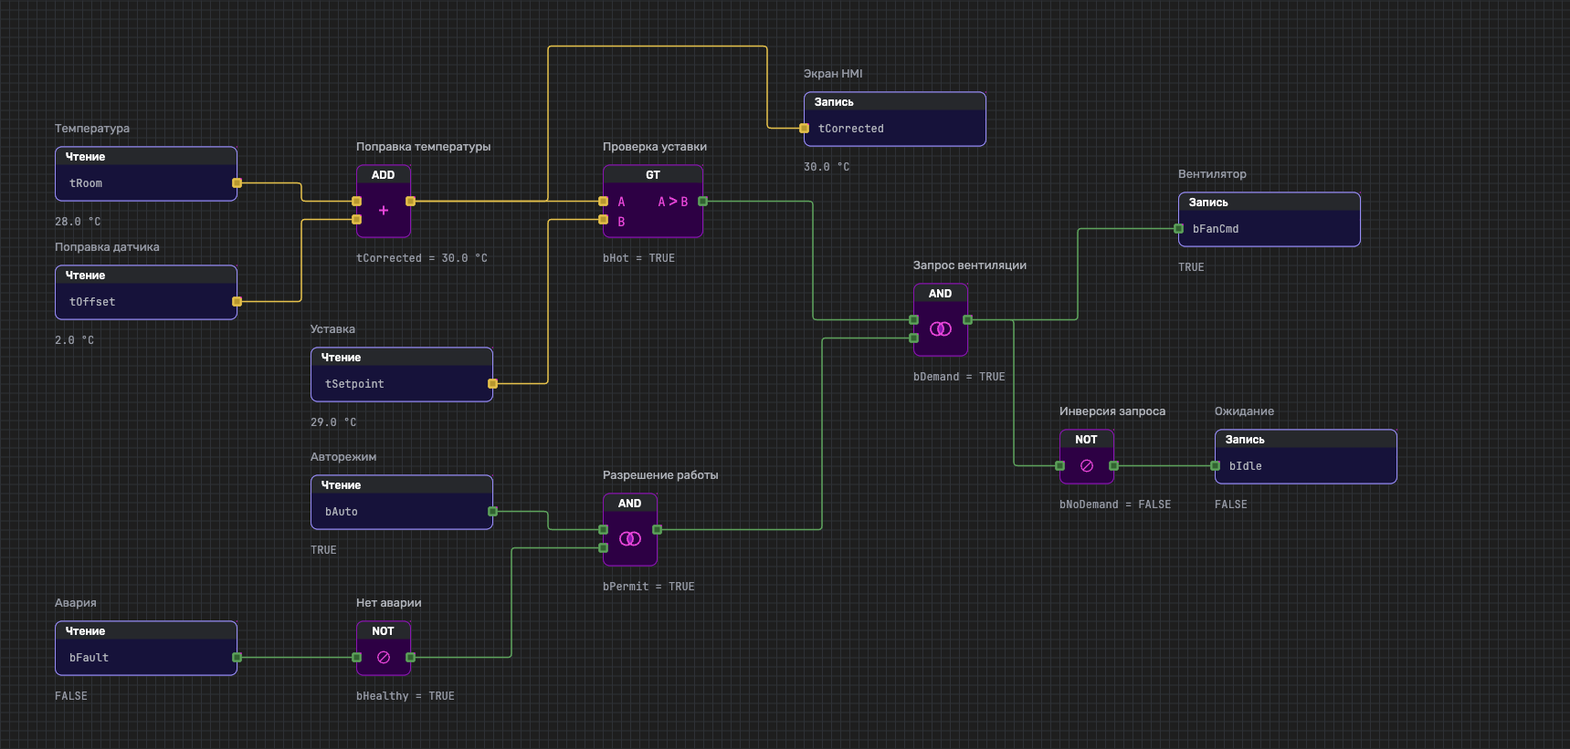
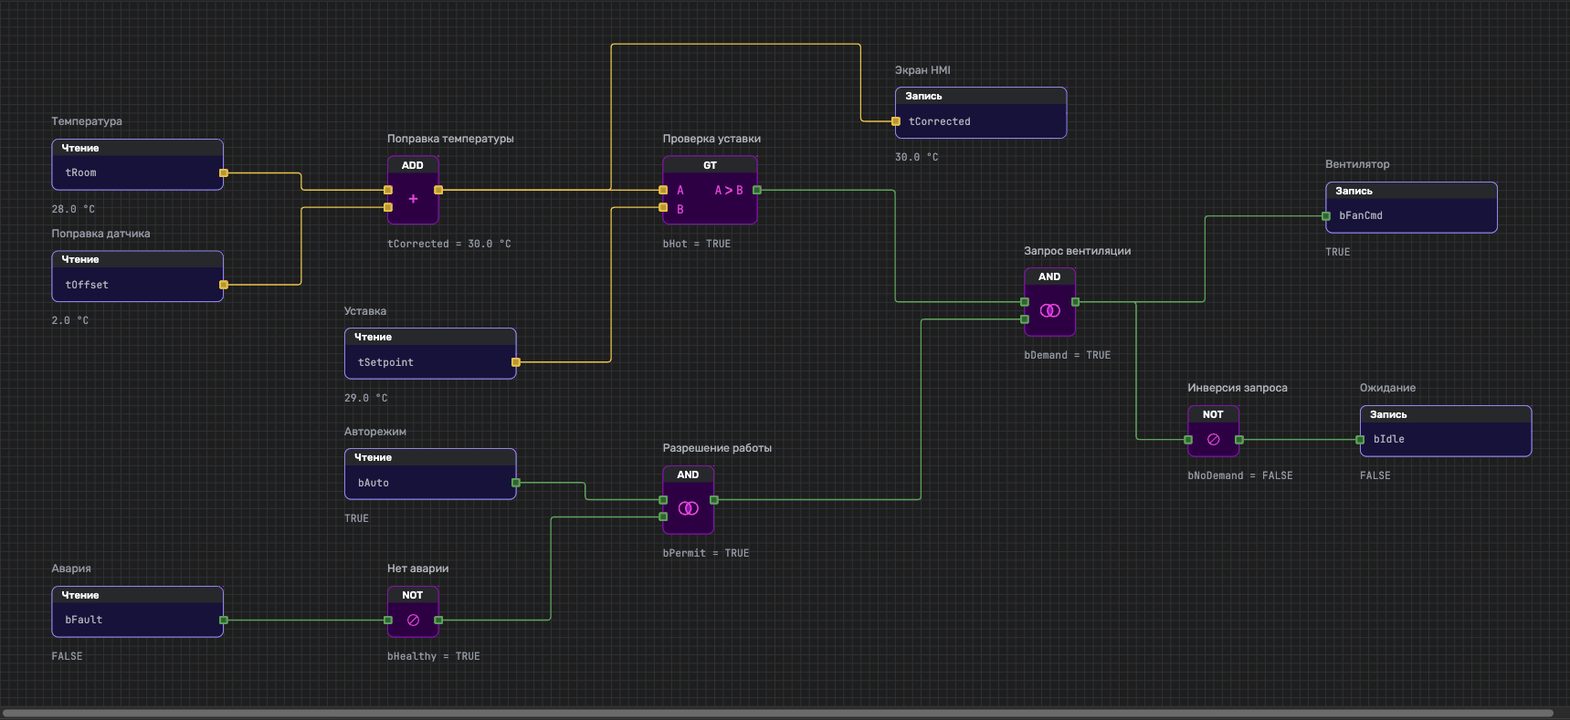
Update CFC branch highlighting and hierarchical numbering

diff --git a/08_tests/Test_CFC/ui/ui.js b/08_tests/Test_CFC/ui/ui.js
@@ -7,11 +7,12 @@ const layout={
 };
 const variableNames={TEMP:'tRoom',OFFSET:'tOffset',LIMIT:'tSetpoint',AUTO:'bAuto',FAULT:'bFault',FAN:'bFanCmd',IDLE:'bIdle',TEMPLOG:'tCorrected'};
 const labels={ADD:'Поправка температуры',GT:'Проверка уставки',HEALTHY:'Нет аварии',PERMIT:'Разрешение работы',DEMAND:'Запрос вентиляции',IDLENOT:'Инверсия запроса'};
+const hierarchyNumbers=branchNumbers(execution,edges);
 const host=document.querySelector('#ui-nodes');
 const variant=document.body.dataset.variant||'a';
 let selectedNode=null;
 for(const n of nodes){
- const outer=document.createElement('div');outer.className='static-node';outer.dataset.id=n.id;outer.dataset.kind=n.kind;layout[n.id]=layout[n.id].map(v=>Math.round(v/10)*10);outer.style.left=layout[n.id][0]+'px';outer.style.top=layout[n.id][1]+'px';
+ const outer=document.createElement('div');outer.className='static-node';outer.dataset.id=n.id;outer.dataset.kind=n.kind;layout[n.id]=[Math.round((60+(layout[n.id][0]-60)*1.2)/10)*10,Math.round(layout[n.id][1]/10)*10];outer.style.left=layout[n.id][0]+'px';outer.style.top=layout[n.id][1]+'px';
  outer.innerHTML=componentTemplates[n.kind];
  outer.setAttribute('role','button');outer.tabIndex=0;outer.setAttribute('aria-pressed','false');outer.setAttribute('aria-label',`${execution.indexOf(n.id)+1}. ${n.title}, ${n.kind}`);
  outer.addEventListener('click',()=>selectNode(n.id));outer.addEventListener('keydown',event=>{if(event.key==='Enter'||event.key===' '){event.preventDefault();selectNode(n.id);}});
@@ -23,26 +24,30 @@ for(const n of nodes){
  const result=document.createElement('div');result.className='node-result';const value=typeof values[n.id]==='boolean'?(values[n.id]?'TRUE':'FALSE'):values[n.id].toFixed(1)+' °C';
  result.textContent=(resultNames[n.id]?resultNames[n.id]+' = ':'')+value;outer.append(result);host.append(outer);
 }
-function point(el){const r=el.getBoundingClientRect(),base=document.querySelector('#static-canvas').getBoundingClientRect();return{x:r.left+r.width/2-base.left,y:r.top+r.height/2-base.top};}
-function ports(id){const root=document.querySelector(`.static-node[data-id="${id}"]`),r=root.firstElementChild.getBoundingClientRect();const all=[...root.querySelectorAll('[data-cfc="AltaCFC_Ports"]')].map(el=>({el,...point(el)}));const center=layout[id][0]+r.width/2;return{inputs:all.filter(p=>p.x<center).sort((a,b)=>a.y-b.y),outputs:all.filter(p=>p.x>=center).sort((a,b)=>a.y-b.y)};}
+function canvasScale(){return Number(document.querySelector('#static-canvas').dataset.scale)||1;}
+function point(el){const r=el.getBoundingClientRect(),base=document.querySelector('#static-canvas').getBoundingClientRect(),scale=canvasScale();return{x:(r.left+r.width/2-base.left)/scale,y:(r.top+r.height/2-base.top)/scale};}
+function ports(id){const root=document.querySelector(`.static-node[data-id="${id}"]`),r=root.firstElementChild.getBoundingClientRect();const all=[...root.querySelectorAll('[data-cfc="AltaCFC_Ports"]')].map(el=>({el,...point(el)}));const center=layout[id][0]+r.width/(2*canvasScale());return{inputs:all.filter(p=>p.x<center).sort((a,b)=>a.y-b.y),outputs:all.filter(p=>p.x>=center).sort((a,b)=>a.y-b.y)};}
 function drawWires(){
  const portMap=Object.fromEntries(nodes.map(n=>[n.id,ports(n.id)]));
  const paths=edges.map(([from,to,index])=>{const a=portMap[from].outputs[0],b=portMap[to].inputs[index];if(!a||!b)throw Error('Port missing: '+from+' / '+to+' / '+index);
  const type=typeof values[from]==='boolean'?'bool':'real';a.el.style.setProperty('--signal',`var(--cfc-ports-${type==='bool'?'bool':'float'}-border)`);a.el.style.setProperty('--signal-bg',`var(--cfc-ports-${type==='bool'?'bool':'float'}-bg)`);b.el.style.setProperty('--signal',`var(--cfc-ports-${type==='bool'?'bool':'float'}-border)`);b.el.style.setProperty('--signal-bg',`var(--cfc-ports-${type==='bool'?'bool':'float'}-bg)`);
  const sx=a.x+5,sy=a.y,tx=b.x-5,ty=b.y;
  // Углы трассы на сетке 10 px, локальное скругление 4 px — как в Figma.
- let d;if(from==='ADD'&&to==='TEMPLOG'){d=roundedGridPath([[sx,sy],[600,sy],[600,50],[840,50],[840,ty],[tx,ty]]);}
- else{const mid=from==='PERMIT'?900:from==='LIMIT'?600:Math.round((sx+tx)/20)*10;d=roundedGridPath([[sx,sy],[mid,sy],[mid,ty],[tx,ty]]);}
+ let d;if(from==='ADD'&&to==='TEMPLOG'){d=roundedGridPath([[sx,sy],[710,sy],[710,50],[1000,50],[1000,ty],[tx,ty]]);}
+ else{const mid=from==='PERMIT'?1070:from==='LIMIT'?710:Math.round((sx+tx)/20)*10;d=roundedGridPath([[sx,sy],[mid,sy],[mid,ty],[tx,ty]]);}
  return `<path class="ui-wire ${type}" data-from="${from}" data-to="${to}" d="${d}"/>`;
  }).join('');document.querySelector('#ui-connections').innerHTML=paths;
  renderSelection();
 }
-document.fonts.ready.then(drawWires);
+function fitCanvas(){const canvas=document.querySelector('#static-canvas'),available=canvas.parentElement.clientWidth;const scale=available>=900?Math.min(1,available/1840):1;canvas.dataset.scale=scale;canvas.style.zoom=scale;}
+fitCanvas();
+document.fonts.ready.then(()=>{fitCanvas();drawWires();});
+window.addEventListener('resize',()=>{fitCanvas();drawWires();});
 
 function selectNode(id){selectedNode=selectedNode===id?null:id;renderSelection();}
 function reachable(id,reverse){const found=new Set(),stack=[id];while(stack.length){const current=stack.pop();for(const [a,b] of edges){const source=reverse?b:a,target=reverse?a:b;if(source===current&&target!==id&&!found.has(target)){found.add(target);stack.push(target);}}}return found;}
 function renderSelection(){
- const up=selectedNode?reachable(selectedNode,true):new Set(),down=selectedNode&&variant==='d'?reachable(selectedNode,false):new Set();
+ const up=selectedNode?reachable(selectedNode,true):new Set(),down=selectedNode&&(variant==='a'||variant==='d')?reachable(selectedNode,false):new Set();
  const chain=new Set([...up,...down,selectedNode]);
  const numbered=selectedNode?(variant==='a'?execution:variant==='b'?execution.filter(id=>chain.has(id)):[]):[];
  document.querySelectorAll('.static-node').forEach(el=>{
@@ -50,14 +55,15 @@ function renderSelection(){
   el.classList.toggle('is-selected',chosen);el.classList.toggle('is-related',related);el.classList.toggle('is-muted',muted);el.setAttribute('aria-pressed',String(chosen));
   const number=numbered.indexOf(id)+1;
   el.querySelector('.execution-order')?.remove();
-  if(number){const badge=document.createElement('span');badge.className='execution-order';badge.textContent=number;badge.setAttribute('aria-hidden','true');el.append(badge);}
-  el.setAttribute('aria-label',`${number?number+'. ':''}${byId[id].title}, ${byId[id].kind}`);
+  const displayNumber=number?(variant==='a'?hierarchyNumbers[id]:String(number)):'';
+  if(displayNumber){const badge=document.createElement('span');badge.className='execution-order';badge.textContent=displayNumber;badge.setAttribute('aria-hidden','true');el.append(badge);}
+  el.setAttribute('aria-label',`${displayNumber?displayNumber+'. ':''}${byId[id].title}, ${byId[id].kind}`);
  });
  document.querySelectorAll('.is-active-port').forEach(el=>el.classList.remove('is-active-port'));
  let count=0;
  document.querySelectorAll('.ui-wire').forEach(path=>{
   const a=path.dataset.from,b=path.dataset.to;
-  const active=!!selectedNode&&(variant==='a'?(a===selectedNode||b===selectedNode):(up.has(a)&&(up.has(b)||b===selectedNode))||(down.has(b)&&(down.has(a)||a===selectedNode)));
+  const active=!!selectedNode&&(variant==='a'?(b===selectedNode||(down.has(b)&&(down.has(a)||a===selectedNode))):(up.has(a)&&(up.has(b)||b===selectedNode))||(down.has(b)&&(down.has(a)||a===selectedNode)));
   path.classList.toggle('is-active',active);path.classList.toggle('is-muted',!!selectedNode&&(variant==='c'||variant==='d')&&!active);
   if(active){count++;const from=ports(a),to=ports(b),edge=edges.find(e=>e[0]===a&&e[1]===b);from.outputs[0].el.classList.add('is-active-port');to.inputs[edge[2]].el.classList.add('is-active-port');}
  });
@@ -65,3 +71,21 @@ function renderSelection(){
 }
 document.querySelector('#static-canvas').addEventListener('click',event=>{if(!event.target.closest('.static-node')){selectedNode=null;renderSelection();}});
 document.addEventListener('keydown',event=>{if(event.key==='Escape'){selectedNode=null;renderSelection();}});
+
+// Для развилки N: N.1.1, N.1.2… / N.2.1, N.2.2… .
+// Вложенная развилка продолжает полный номер родителя. Одна нода имеет один номер.
+function branchNumbers(order,graph){
+ const labels={},scopes={};let rootNumber=0;
+ const targets=id=>[...new Set(graph.filter(edge=>edge[0]===id).map(edge=>edge[1]))];
+ for(const id of order){
+  const candidates=graph.filter(edge=>edge[1]===id).map(([from])=>{
+   const branches=targets(from);
+   if(branches.length>1)return{prefix:labels[from]+'.'+(branches.indexOf(id)+1),step:1};
+   if(scopes[from])return{prefix:scopes[from].prefix,step:scopes[from].step+1};
+   return null;
+  }).filter(Boolean).sort((a,b)=>b.prefix.split('.').length-a.prefix.split('.').length);
+  if(candidates.length){scopes[id]=candidates[0];labels[id]=scopes[id].prefix+'.'+scopes[id].step;}
+  else labels[id]=String(++rootNumber);
+ }
+ return labels;
+}

diff --git a/08_tests/Test_CFC/index.html b/08_tests/Test_CFC/index.html
@@ -1,1 +1,1 @@
-<!doctype html><html lang="ru" data-theme="dark"><head><meta charset="utf-8"><meta name="viewport" content="width=device-width,initial-scale=1"><title>ALTA CFC · Варианты визуализации</title><link rel="icon" href="data:,"><link rel="stylesheet" href="ui/vendor/theme.css"><link rel="stylesheet" href="gallery.css?v=20261123-grid"></head><body><main><header><p class="overline">ALTA / CFC</p><h1>Как показать порядок исполнения?</h1><p class="intro">Четыре варианта на одной схеме управления вентиляцией. Откройте любой вариант, чтобы рассмотреть его и попробовать выбор нод.</p></header><section class="options" aria-label="Варианты визуализации"><a class="option" href="variant-a.html" aria-label="Открыть вариант A: Общий порядок исполнения"><div class="option-heading"><span class="variant-label">A</span><h2>Общий порядок исполнения</h2><span class="expand"><svg viewBox="0 0 20 20" width="18" height="18" fill="none" aria-hidden="true"><path d="M3 8V3h5M12 3h5v5M17 12v5h-5M8 17H3v-5" stroke="currentColor" stroke-width="1.5" stroke-linecap="round" stroke-linejoin="round"/></svg><span>Развернуть</span></span></div><div class="thumbnail"><img src="ui/previews/a.png?v=unselected" alt="Схема вентиляции — вариант A: Общий порядок исполнения" width="1734" height="820"></div><p>Номера всех нод появляются при выборе любой ноды.</p></a><a class="option" href="variant-b.html" aria-label="Открыть вариант B: Порядок выбранной цепочки"><div class="option-heading"><span class="variant-label">B</span><h2>Порядок выбранной цепочки</h2><span class="expand"><svg viewBox="0 0 20 20" width="18" height="18" fill="none" aria-hidden="true"><path d="M3 8V3h5M12 3h5v5M17 12v5h-5M8 17H3v-5" stroke="currentColor" stroke-width="1.5" stroke-linecap="round" stroke-linejoin="round"/></svg><span>Развернуть</span></span></div><div class="thumbnail"><img src="ui/previews/b.png?v=unselected" alt="Схема вентиляции — вариант B: Порядок выбранной цепочки" width="1734" height="820"></div><p>Нумеруется цепочка, необходимая для исполнения выбранной ноды.</p></a><a class="option" href="variant-c.html" aria-label="Открыть вариант C: Зависимости выбранной ноды"><div class="option-heading"><span class="variant-label">C</span><h2>Зависимости выбранной ноды</h2><span class="expand"><svg viewBox="0 0 20 20" width="18" height="18" fill="none" aria-hidden="true"><path d="M3 8V3h5M12 3h5v5M17 12v5h-5M8 17H3v-5" stroke="currentColor" stroke-width="1.5" stroke-linecap="round" stroke-linejoin="round"/></svg><span>Развернуть</span></span></div><div class="thumbnail"><img src="ui/previews/c.png?v=unselected" alt="Схема вентиляции — вариант C: Зависимости выбранной ноды" width="1734" height="820"></div><p>Выделяются зависимости; остальная схема приглушается.</p></a><a class="option" href="variant-d.html" aria-label="Открыть вариант D: Зависимости и дальнейшее влияние"><div class="option-heading"><span class="variant-label">D</span><h2>Зависимости и дальнейшее влияние</h2><span class="expand"><svg viewBox="0 0 20 20" width="18" height="18" fill="none" aria-hidden="true"><path d="M3 8V3h5M12 3h5v5M17 12v5h-5M8 17H3v-5" stroke="currentColor" stroke-width="1.5" stroke-linecap="round" stroke-linejoin="round"/></svg><span>Развернуть</span></span></div><div class="thumbnail"><img src="ui/previews/d.png?v=unselected" alt="Схема вентиляции — вариант D: Зависимости и дальнейшее влияние" width="1734" height="820"></div><p>Выделяются зависимости и ноды, на которые выбранная нода влияет.</p></a></section></main></body></html>
+<!doctype html><html lang="ru" data-theme="dark"><head><meta charset="utf-8"><meta name="viewport" content="width=device-width,initial-scale=1"><title>ALTA CFC · Варианты визуализации</title><link rel="icon" href="data:,"><link rel="stylesheet" href="ui/vendor/theme.css"><link rel="stylesheet" href="gallery.css?v=20261123-grid"></head><body><main><header><p class="overline">ALTA / CFC</p><h1>Как показать порядок исполнения?</h1><p class="intro">Четыре варианта на одной схеме управления вентиляцией. Откройте любой вариант, чтобы рассмотреть его и попробовать выбор нод.</p></header><section class="options" aria-label="Варианты визуализации"><a class="option" href="variant-a.html" aria-label="Открыть вариант A: Общий порядок исполнения"><div class="option-heading"><span class="variant-label">A</span><h2>Общий порядок исполнения</h2><span class="expand"><svg viewBox="0 0 20 20" width="18" height="18" fill="none" aria-hidden="true"><path d="M3 8V3h5M12 3h5v5M17 12v5h-5M8 17H3v-5" stroke="currentColor" stroke-width="1.5" stroke-linecap="round" stroke-linejoin="round"/></svg><span>Развернуть</span></span></div><div class="thumbnail"><img src="ui/previews/a.png?v=hierarchy6" alt="Схема вентиляции — вариант A: Общий порядок исполнения" width="1734" height="820"></div><p>Номера всех нод появляются при выборе любой ноды.</p></a><a class="option" href="variant-b.html" aria-label="Открыть вариант B: Порядок выбранной цепочки"><div class="option-heading"><span class="variant-label">B</span><h2>Порядок выбранной цепочки</h2><span class="expand"><svg viewBox="0 0 20 20" width="18" height="18" fill="none" aria-hidden="true"><path d="M3 8V3h5M12 3h5v5M17 12v5h-5M8 17H3v-5" stroke="currentColor" stroke-width="1.5" stroke-linecap="round" stroke-linejoin="round"/></svg><span>Развернуть</span></span></div><div class="thumbnail"><img src="ui/previews/b.png?v=hierarchy6" alt="Схема вентиляции — вариант B: Порядок выбранной цепочки" width="1734" height="820"></div><p>Нумеруется цепочка, необходимая для исполнения выбранной ноды.</p></a><a class="option" href="variant-c.html" aria-label="Открыть вариант C: Зависимости выбранной ноды"><div class="option-heading"><span class="variant-label">C</span><h2>Зависимости выбранной ноды</h2><span class="expand"><svg viewBox="0 0 20 20" width="18" height="18" fill="none" aria-hidden="true"><path d="M3 8V3h5M12 3h5v5M17 12v5h-5M8 17H3v-5" stroke="currentColor" stroke-width="1.5" stroke-linecap="round" stroke-linejoin="round"/></svg><span>Развернуть</span></span></div><div class="thumbnail"><img src="ui/previews/c.png?v=hierarchy6" alt="Схема вентиляции — вариант C: Зависимости выбранной ноды" width="1734" height="820"></div><p>Выделяются зависимости; остальная схема приглушается.</p></a><a class="option" href="variant-d.html" aria-label="Открыть вариант D: Зависимости и дальнейшее влияние"><div class="option-heading"><span class="variant-label">D</span><h2>Зависимости и дальнейшее влияние</h2><span class="expand"><svg viewBox="0 0 20 20" width="18" height="18" fill="none" aria-hidden="true"><path d="M3 8V3h5M12 3h5v5M17 12v5h-5M8 17H3v-5" stroke="currentColor" stroke-width="1.5" stroke-linecap="round" stroke-linejoin="round"/></svg><span>Развернуть</span></span></div><div class="thumbnail"><img src="ui/previews/d.png?v=hierarchy6" alt="Схема вентиляции — вариант D: Зависимости и дальнейшее влияние" width="1734" height="820"></div><p>Выделяются зависимости и ноды, на которые выбранная нода влияет.</p></a></section></main></body></html>

diff --git a/08_tests/Test_CFC/ui/ui.css b/08_tests/Test_CFC/ui/ui.css
@@ -1,5 +1,5 @@
 @font-face{font-family:Rubik;src:url("fonts/Rubik-Regular.ttf");font-weight:400;font-display:swap}@font-face{font-family:Rubik;src:url("fonts/Rubik-Medium.ttf");font-weight:500;font-display:swap}@font-face{font-family:"JetBrains Mono";src:url("fonts/JetBrainsMono-Regular.ttf");font-weight:400 700;font-display:swap}
-:root{color-scheme:dark;--page:var(--cfc-toolbar-bg);--chrome:var(--cfc-bg-codecanvas-default);--frame:var(--cfc-canvas-grid);--text:var(--cfc-docs-label);--muted:var(--cfc-docs-note)}*{box-sizing:border-box}body{margin:0;background:var(--page);color:var(--text);font:14px/1.5 Rubik,Arial,sans-serif}main{max-width:1800px;margin:auto;padding:32px}.page-heading{display:flex;justify-content:space-between;gap:20px;align-items:center;margin-bottom:24px}.overline{color:var(--muted);font-size:12px;letter-spacing:1.4px;margin:0 0 6px}h1{font-size:24px;font-weight:500;margin:0 0 8px}.summary{margin:0;color:var(--cfc-funfbprg-codetext);font-size:14px}.draft{border:1px solid var(--frame);border-radius:5px;padding:6px 10px;white-space:nowrap;color:var(--muted);font-size:12px}.editor{border:1px solid var(--frame);border-radius:8px;overflow:hidden}.program{height:40px;display:flex;align-items:center;gap:10px;padding:0 16px;background:var(--chrome);border-bottom:1px solid var(--frame);font-size:13px}.program-type{font-size:10px;font-weight:500;color:var(--cfc-operators-icon);border:1px solid var(--cfc-operators-border-default);padding:0 3px;border-radius:2px}.program-note{margin-left:auto;color:var(--muted);font-size:12px}.scroll{overflow:auto;background:var(--cfc-canvas-bg)}.static-canvas{position:relative;width:1580px;height:820px;background-color:var(--cfc-canvas-bg);background-image:linear-gradient(var(--cfc-canvas-grid) 1px,transparent 1px),linear-gradient(90deg,var(--cfc-canvas-grid) 1px,transparent 1px);background-size:10px 10px}.connections{position:absolute;inset:0;overflow:visible}.static-node{position:absolute;line-height:0}.static-node .cfc-component{cursor:default;pointer-events:none}.static-node>.node-description{position:absolute;left:0;top:-30px;width:240px;font:400 13px/20px Rubik,Arial,sans-serif;color:var(--cfc-funfbprg-codetext);white-space:nowrap}.node-description .value{color:var(--cfc-docs-note);font-size:12px}.static-node .node-result{position:absolute;top:calc(100% + 12px);left:0;min-width:150px;white-space:nowrap;color:var(--cfc-docs-note);font:400 12px/20px "JetBrains Mono",monospace}.static-node .node-result strong{font-weight:400;color:var(--cfc-funfbprg-codetext)}.static-node[data-kind="READ"]>.node-description,.static-node[data-kind="WRITE"]>.node-description{color:var(--cfc-docs-note)}.static-node [data-cfc="AltaCFC_Ports"]>.cfc-node>.cfc-node{background:var(--signal-bg)!important;box-shadow:inset 0 2px 0 var(--signal),inset -2px 0 0 var(--signal),inset 0 -2px 0 var(--signal),inset 2px 0 0 var(--signal)!important}.ui-wire{fill:none;stroke-width:1.5;stroke-linecap:round;stroke-linejoin:round}.ui-wire.real{stroke:var(--cfc-lines-float)}.ui-wire.bool{stroke:var(--cfc-lines-bool)}.junction.real{fill:var(--cfc-lines-float)}.junction.bool{fill:var(--cfc-lines-bool)}footer{height:40px;border-top:1px solid var(--frame);background:var(--chrome);display:flex;align-items:center;justify-content:space-between;padding:0 16px;font-size:12px;color:var(--muted)}.signal-legend{display:flex;gap:20px}.signal-legend span{display:flex;gap:8px;align-items:center}.signal-legend i{width:16px;height:2px;display:inline-block}.signal-legend .float{background:var(--cfc-lines-float)}.signal-legend .bool{background:var(--cfc-lines-bool)}.footnote{color:var(--muted);font-size:12px;margin:12px 0 0}@media(max-width:800px){main{padding:20px 12px}.page-heading{align-items:flex-start;flex-direction:column;gap:12px}.program-note{display:none}.summary{font-size:13px}.static-canvas{height:820px}h1{font-size:22px}}
+:root{color-scheme:dark;--page:var(--cfc-toolbar-bg);--chrome:var(--cfc-bg-codecanvas-default);--frame:var(--cfc-canvas-grid);--text:var(--cfc-docs-label);--muted:var(--cfc-docs-note)}*{box-sizing:border-box}body{margin:0;background:var(--page);color:var(--text);font:14px/1.5 Rubik,Arial,sans-serif}main{max-width:1800px;margin:auto;padding:32px}.page-heading{display:flex;justify-content:space-between;gap:20px;align-items:center;margin-bottom:24px}.overline{color:var(--muted);font-size:12px;letter-spacing:1.4px;margin:0 0 6px}h1{font-size:24px;font-weight:500;margin:0 0 8px}.summary{margin:0;color:var(--cfc-funfbprg-codetext);font-size:14px}.draft{border:1px solid var(--frame);border-radius:5px;padding:6px 10px;white-space:nowrap;color:var(--muted);font-size:12px}.editor{border:1px solid var(--frame);border-radius:8px;overflow:hidden}.program{height:40px;display:flex;align-items:center;gap:10px;padding:0 16px;background:var(--chrome);border-bottom:1px solid var(--frame);font-size:13px}.program-type{font-size:10px;font-weight:500;color:var(--cfc-operators-icon);border:1px solid var(--cfc-operators-border-default);padding:0 3px;border-radius:2px}.program-note{margin-left:auto;color:var(--muted);font-size:12px}.scroll{overflow:auto;background:var(--cfc-canvas-bg)}.static-canvas{position:relative;width:1840px;height:820px;background-color:var(--cfc-canvas-bg);background-image:linear-gradient(var(--cfc-canvas-grid) 1px,transparent 1px),linear-gradient(90deg,var(--cfc-canvas-grid) 1px,transparent 1px);background-size:10px 10px}.connections{position:absolute;inset:0;overflow:visible}.static-node{position:absolute;line-height:0}.static-node .cfc-component{cursor:default;pointer-events:none}.static-node>.node-description{position:absolute;left:0;top:-30px;width:240px;font:400 13px/20px Rubik,Arial,sans-serif;color:var(--cfc-funfbprg-codetext);white-space:nowrap}.node-description .value{color:var(--cfc-docs-note);font-size:12px}.static-node .node-result{position:absolute;top:calc(100% + 12px);left:0;min-width:150px;white-space:nowrap;color:var(--cfc-docs-note);font:400 12px/20px "JetBrains Mono",monospace}.static-node .node-result strong{font-weight:400;color:var(--cfc-funfbprg-codetext)}.static-node[data-kind="READ"]>.node-description,.static-node[data-kind="WRITE"]>.node-description{color:var(--cfc-docs-note)}.static-node [data-cfc="AltaCFC_Ports"]>.cfc-node>.cfc-node{background:var(--signal-bg)!important;box-shadow:inset 0 2px 0 var(--signal),inset -2px 0 0 var(--signal),inset 0 -2px 0 var(--signal),inset 2px 0 0 var(--signal)!important}.ui-wire{fill:none;stroke-width:1.5;stroke-linecap:round;stroke-linejoin:round}.ui-wire.real{stroke:var(--cfc-lines-float)}.ui-wire.bool{stroke:var(--cfc-lines-bool)}.junction.real{fill:var(--cfc-lines-float)}.junction.bool{fill:var(--cfc-lines-bool)}footer{height:40px;border-top:1px solid var(--frame);background:var(--chrome);display:flex;align-items:center;justify-content:space-between;padding:0 16px;font-size:12px;color:var(--muted)}.signal-legend{display:flex;gap:20px}.signal-legend span{display:flex;gap:8px;align-items:center}.signal-legend i{width:16px;height:2px;display:inline-block}.signal-legend .float{background:var(--cfc-lines-float)}.signal-legend .bool{background:var(--cfc-lines-bool)}.footnote{color:var(--muted);font-size:12px;margin:12px 0 0}@media(max-width:800px){main{padding:20px 12px}.page-heading{align-items:flex-start;flex-direction:column;gap:12px}.program-note{display:none}.summary{font-size:13px}.static-canvas{height:820px}h1{font-size:22px}}
 
 .static-canvas{min-width:100%}
 
@@ -19,3 +19,7 @@
 .ui-wire.is-muted{stroke:var(--cfc-lines-error);opacity:.35}
 
 .overview-link{display:inline-flex;align-items:center;gap:8px;margin-bottom:22px;color:var(--cfc-docs-note);font-size:13px;text-decoration:none}.overview-link:hover{color:var(--cfc-docs-label)}.overview-link:focus-visible{outline:2px solid var(--cfc-operators-border-focused);outline-offset:5px}
+
+/* Номер ветви помещается целиком; подпись не пересекается с длинным номером. */
+.execution-order{width:auto;min-width:22px;padding:0 6px;right:0;top:-21px;border-radius:11px;white-space:nowrap}
+.static-node:has(.execution-order)>.node-description{top:-46px}

diff --git a/08_tests/Test_CFC/variant-a.html b/08_tests/Test_CFC/variant-a.html
@@ -1,6 +1,6 @@
 <!doctype html>
-<html lang="ru" data-theme="dark"><head><meta charset="utf-8"><meta name="viewport" content="width=device-width,initial-scale=1"><title>ALTA CFC · Вентиляция · Вариант A</title><link rel="icon" href="data:,"><link rel="stylesheet" href="ui/vendor/tokens.css"><link rel="stylesheet" href="ui/vendor/cfc-tokens.css"><link rel="stylesheet" href="ui/vendor/theme.css"><link rel="stylesheet" href="ui/vendor/base.css"><link rel="stylesheet" href="ui/vendor/ports.css"><link rel="stylesheet" href="ui/vendor/variable.css"><link rel="stylesheet" href="ui/vendor/read.css"><link rel="stylesheet" href="ui/vendor/write.css"><link rel="stylesheet" href="ui/vendor/add.css"><link rel="stylesheet" href="ui/vendor/gt.css"><link rel="stylesheet" href="ui/vendor/and.css"><link rel="stylesheet" href="ui/vendor/not.css"><link rel="stylesheet" href="ui/ui.css?v=20261123-3"></head>
+<html lang="ru" data-theme="dark"><head><meta charset="utf-8"><meta name="viewport" content="width=device-width,initial-scale=1"><title>ALTA CFC · Вентиляция · Вариант A</title><link rel="icon" href="data:,"><link rel="stylesheet" href="ui/vendor/tokens.css"><link rel="stylesheet" href="ui/vendor/cfc-tokens.css"><link rel="stylesheet" href="ui/vendor/theme.css"><link rel="stylesheet" href="ui/vendor/base.css"><link rel="stylesheet" href="ui/vendor/ports.css"><link rel="stylesheet" href="ui/vendor/variable.css"><link rel="stylesheet" href="ui/vendor/read.css"><link rel="stylesheet" href="ui/vendor/write.css"><link rel="stylesheet" href="ui/vendor/add.css"><link rel="stylesheet" href="ui/vendor/gt.css"><link rel="stylesheet" href="ui/vendor/and.css"><link rel="stylesheet" href="ui/vendor/not.css"><link rel="stylesheet" href="ui/ui.css?v=20261123-6"></head>
 <body data-variant="a"><main><a class="overview-link" href="index.html"><svg viewBox="0 0 16 16" width="16" height="16" aria-hidden="true"><g fill="none" stroke="currentColor"><rect x="1.5" y="1.5" width="5" height="5" rx=".5"/><rect x="9.5" y="1.5" width="5" height="5" rx=".5"/><rect x="1.5" y="9.5" width="5" height="5" rx=".5"/><rect x="9.5" y="9.5" width="5" height="5" rx=".5"/></g></svg>Все четыре варианта</a><header class="page-heading"><div><p class="overline">ALTA / CFC</p><h1>Управление вентиляцией</h1><p class="summary">Вентилятор включается при превышении уставки, если разрешён авторежим и нет аварии.</p></div><span class="draft">A · Общий порядок исполнения</span></header>
-<section class="editor" aria-label="Схема управления вентиляцией"><div class="program"><span class="program-type">CFC</span><span>Ventilation_Control</span><span class="program-note">Основная программа</span></div><div class="scroll"><div id="static-canvas" class="static-canvas"><svg class="connections" id="ui-connections" width="1580" height="820" viewBox="0 0 1580 820" aria-hidden="true"></svg><div id="ui-nodes"></div></div></div><footer><span id="selection-status" aria-live="polite">Выберите ноду, чтобы подсветить её связи</span><div class="signal-legend"><span><i class="float"></i>REAL</span><span><i class="bool"></i>BOOL</span></div></footer></section>
-<p class="footnote">Пример значений: 28 + 2 = 30 °C &gt; 29 °C. Авторежим включён, аварии нет. Команда вентилятора — TRUE. При выборе ноды появляются номера общего порядка вычисления. Повторный клик, пустой холст или Esc снимают выбор.</p></main>
-<script src="scenario.js"></script><script src="ui/templates.js"></script><script src="ui/ui.js?v=20261123-4"></script></body></html>
+<section class="editor" aria-label="Схема управления вентиляцией"><div class="program"><span class="program-type">CFC</span><span>Ventilation_Control</span><span class="program-note">Основная программа</span></div><div class="scroll"><div id="static-canvas" class="static-canvas"><svg class="connections" id="ui-connections" width="1840" height="820" viewBox="0 0 1840 820" aria-hidden="true"></svg><div id="ui-nodes"></div></div></div><footer><span id="selection-status" aria-live="polite">Выберите ноду, чтобы подсветить её связи</span><div class="signal-legend"><span><i class="float"></i>REAL</span><span><i class="bool"></i>BOOL</span></div></footer></section>
+<p class="footnote">Пример значений: 28 + 2 = 30 °C &gt; 29 °C. Авторежим включён, аварии нет. Команда вентилятора — TRUE. При выборе ноды появляются номера общего порядка вычисления. Ветви нумеруются по уровням: номер родителя, номер ветви, шаг в ветви. Подсвечиваются все дальнейшие ветви выбранной ноды. Повторный клик, пустой холст или Esc снимают выбор.</p></main>
+<script src="scenario.js"></script><script src="ui/templates.js"></script><script src="ui/ui.js?v=20261123-6"></script></body></html>

diff --git a/08_tests/Test_CFC/variant-d.html b/08_tests/Test_CFC/variant-d.html
@@ -1,6 +1,6 @@
 <!doctype html>
-<html lang="ru" data-theme="dark"><head><meta charset="utf-8"><meta name="viewport" content="width=device-width,initial-scale=1"><title>ALTA CFC · Вентиляция · Вариант D</title><link rel="icon" href="data:,"><link rel="stylesheet" href="ui/vendor/tokens.css"><link rel="stylesheet" href="ui/vendor/cfc-tokens.css"><link rel="stylesheet" href="ui/vendor/theme.css"><link rel="stylesheet" href="ui/vendor/base.css"><link rel="stylesheet" href="ui/vendor/ports.css"><link rel="stylesheet" href="ui/vendor/variable.css"><link rel="stylesheet" href="ui/vendor/read.css"><link rel="stylesheet" href="ui/vendor/write.css"><link rel="stylesheet" href="ui/vendor/add.css"><link rel="stylesheet" href="ui/vendor/gt.css"><link rel="stylesheet" href="ui/vendor/and.css"><link rel="stylesheet" href="ui/vendor/not.css"><link rel="stylesheet" href="ui/ui.css?v=20261123-3"></head>
+<html lang="ru" data-theme="dark"><head><meta charset="utf-8"><meta name="viewport" content="width=device-width,initial-scale=1"><title>ALTA CFC · Вентиляция · Вариант D</title><link rel="icon" href="data:,"><link rel="stylesheet" href="ui/vendor/tokens.css"><link rel="stylesheet" href="ui/vendor/cfc-tokens.css"><link rel="stylesheet" href="ui/vendor/theme.css"><link rel="stylesheet" href="ui/vendor/base.css"><link rel="stylesheet" href="ui/vendor/ports.css"><link rel="stylesheet" href="ui/vendor/variable.css"><link rel="stylesheet" href="ui/vendor/read.css"><link rel="stylesheet" href="ui/vendor/write.css"><link rel="stylesheet" href="ui/vendor/add.css"><link rel="stylesheet" href="ui/vendor/gt.css"><link rel="stylesheet" href="ui/vendor/and.css"><link rel="stylesheet" href="ui/vendor/not.css"><link rel="stylesheet" href="ui/ui.css?v=20261123-6"></head>
 <body data-variant="d"><main><a class="overview-link" href="index.html"><svg viewBox="0 0 16 16" width="16" height="16" aria-hidden="true"><g fill="none" stroke="currentColor"><rect x="1.5" y="1.5" width="5" height="5" rx=".5"/><rect x="9.5" y="1.5" width="5" height="5" rx=".5"/><rect x="1.5" y="9.5" width="5" height="5" rx=".5"/><rect x="9.5" y="9.5" width="5" height="5" rx=".5"/></g></svg>Все четыре варианта</a><header class="page-heading"><div><p class="overline">ALTA / CFC</p><h1>Управление вентиляцией</h1><p class="summary">Вентилятор включается при превышении уставки, если разрешён авторежим и нет аварии.</p></div><span class="draft">D · Зависимости и дальнейшее влияние</span></header>
-<section class="editor" aria-label="Схема управления вентиляцией"><div class="program"><span class="program-type">CFC</span><span>Ventilation_Control</span><span class="program-note">Основная программа</span></div><div class="scroll"><div id="static-canvas" class="static-canvas"><svg class="connections" id="ui-connections" width="1580" height="820" viewBox="0 0 1580 820" aria-hidden="true"></svg><div id="ui-nodes"></div></div></div><footer><span id="selection-status" aria-live="polite">Выберите ноду, чтобы подсветить её связи</span><div class="signal-legend"><span><i class="float"></i>REAL</span><span><i class="bool"></i>BOOL</span></div></footer></section>
+<section class="editor" aria-label="Схема управления вентиляцией"><div class="program"><span class="program-type">CFC</span><span>Ventilation_Control</span><span class="program-note">Основная программа</span></div><div class="scroll"><div id="static-canvas" class="static-canvas"><svg class="connections" id="ui-connections" width="1840" height="820" viewBox="0 0 1840 820" aria-hidden="true"></svg><div id="ui-nodes"></div></div></div><footer><span id="selection-status" aria-live="polite">Выберите ноду, чтобы подсветить её связи</span><div class="signal-legend"><span><i class="float"></i>REAL</span><span><i class="bool"></i>BOOL</span></div></footer></section>
 <p class="footnote">Пример значений: 28 + 2 = 30 °C &gt; 29 °C. Авторежим включён, аварии нет. Команда вентилятора — TRUE. При выборе ноды выделяются её зависимости и все ноды, на которые она влияет. Остальная схема приглушается. Повторный клик, пустой холст или Esc снимают выбор.</p></main>
-<script src="scenario.js"></script><script src="ui/templates.js"></script><script src="ui/ui.js?v=20261123-4"></script></body></html>
+<script src="scenario.js"></script><script src="ui/templates.js"></script><script src="ui/ui.js?v=20261123-6"></script></body></html>

diff --git a/08_tests/Test_CFC/variant-b.html b/08_tests/Test_CFC/variant-b.html
@@ -1,6 +1,6 @@
 <!doctype html>
-<html lang="ru" data-theme="dark"><head><meta charset="utf-8"><meta name="viewport" content="width=device-width,initial-scale=1"><title>ALTA CFC · Вентиляция · Вариант B</title><link rel="icon" href="data:,"><link rel="stylesheet" href="ui/vendor/tokens.css"><link rel="stylesheet" href="ui/vendor/cfc-tokens.css"><link rel="stylesheet" href="ui/vendor/theme.css"><link rel="stylesheet" href="ui/vendor/base.css"><link rel="stylesheet" href="ui/vendor/ports.css"><link rel="stylesheet" href="ui/vendor/variable.css"><link rel="stylesheet" href="ui/vendor/read.css"><link rel="stylesheet" href="ui/vendor/write.css"><link rel="stylesheet" href="ui/vendor/add.css"><link rel="stylesheet" href="ui/vendor/gt.css"><link rel="stylesheet" href="ui/vendor/and.css"><link rel="stylesheet" href="ui/vendor/not.css"><link rel="stylesheet" href="ui/ui.css?v=20261123-3"></head>
+<html lang="ru" data-theme="dark"><head><meta charset="utf-8"><meta name="viewport" content="width=device-width,initial-scale=1"><title>ALTA CFC · Вентиляция · Вариант B</title><link rel="icon" href="data:,"><link rel="stylesheet" href="ui/vendor/tokens.css"><link rel="stylesheet" href="ui/vendor/cfc-tokens.css"><link rel="stylesheet" href="ui/vendor/theme.css"><link rel="stylesheet" href="ui/vendor/base.css"><link rel="stylesheet" href="ui/vendor/ports.css"><link rel="stylesheet" href="ui/vendor/variable.css"><link rel="stylesheet" href="ui/vendor/read.css"><link rel="stylesheet" href="ui/vendor/write.css"><link rel="stylesheet" href="ui/vendor/add.css"><link rel="stylesheet" href="ui/vendor/gt.css"><link rel="stylesheet" href="ui/vendor/and.css"><link rel="stylesheet" href="ui/vendor/not.css"><link rel="stylesheet" href="ui/ui.css?v=20261123-6"></head>
 <body data-variant="b"><main><a class="overview-link" href="index.html"><svg viewBox="0 0 16 16" width="16" height="16" aria-hidden="true"><g fill="none" stroke="currentColor"><rect x="1.5" y="1.5" width="5" height="5" rx=".5"/><rect x="9.5" y="1.5" width="5" height="5" rx=".5"/><rect x="1.5" y="9.5" width="5" height="5" rx=".5"/><rect x="9.5" y="9.5" width="5" height="5" rx=".5"/></g></svg>Все четыре варианта</a><header class="page-heading"><div><p class="overline">ALTA / CFC</p><h1>Управление вентиляцией</h1><p class="summary">Вентилятор включается при превышении уставки, если разрешён авторежим и нет аварии.</p></div><span class="draft">B · Порядок цепочки выбранной ноды</span></header>
-<section class="editor" aria-label="Схема управления вентиляцией"><div class="program"><span class="program-type">CFC</span><span>Ventilation_Control</span><span class="program-note">Основная программа</span></div><div class="scroll"><div id="static-canvas" class="static-canvas"><svg class="connections" id="ui-connections" width="1580" height="820" viewBox="0 0 1580 820" aria-hidden="true"></svg><div id="ui-nodes"></div></div></div><footer><span id="selection-status" aria-live="polite">Выберите ноду, чтобы подсветить её связи</span><div class="signal-legend"><span><i class="float"></i>REAL</span><span><i class="bool"></i>BOOL</span></div></footer></section>
+<section class="editor" aria-label="Схема управления вентиляцией"><div class="program"><span class="program-type">CFC</span><span>Ventilation_Control</span><span class="program-note">Основная программа</span></div><div class="scroll"><div id="static-canvas" class="static-canvas"><svg class="connections" id="ui-connections" width="1840" height="820" viewBox="0 0 1840 820" aria-hidden="true"></svg><div id="ui-nodes"></div></div></div><footer><span id="selection-status" aria-live="polite">Выберите ноду, чтобы подсветить её связи</span><div class="signal-legend"><span><i class="float"></i>REAL</span><span><i class="bool"></i>BOOL</span></div></footer></section>
 <p class="footnote">Пример значений: 28 + 2 = 30 °C &gt; 29 °C. Авторежим включён, аварии нет. Команда вентилятора — TRUE. При выборе ноды нумеруется только цепочка, необходимая для её вычисления. Повторный клик, пустой холст или Esc снимают выбор.</p></main>
-<script src="scenario.js"></script><script src="ui/templates.js"></script><script src="ui/ui.js?v=20261123-4"></script></body></html>
+<script src="scenario.js"></script><script src="ui/templates.js"></script><script src="ui/ui.js?v=20261123-6"></script></body></html>

diff --git a/08_tests/Test_CFC/variant-c.html b/08_tests/Test_CFC/variant-c.html
@@ -1,6 +1,6 @@
 <!doctype html>
-<html lang="ru" data-theme="dark"><head><meta charset="utf-8"><meta name="viewport" content="width=device-width,initial-scale=1"><title>ALTA CFC · Вентиляция · Вариант C</title><link rel="icon" href="data:,"><link rel="stylesheet" href="ui/vendor/tokens.css"><link rel="stylesheet" href="ui/vendor/cfc-tokens.css"><link rel="stylesheet" href="ui/vendor/theme.css"><link rel="stylesheet" href="ui/vendor/base.css"><link rel="stylesheet" href="ui/vendor/ports.css"><link rel="stylesheet" href="ui/vendor/variable.css"><link rel="stylesheet" href="ui/vendor/read.css"><link rel="stylesheet" href="ui/vendor/write.css"><link rel="stylesheet" href="ui/vendor/add.css"><link rel="stylesheet" href="ui/vendor/gt.css"><link rel="stylesheet" href="ui/vendor/and.css"><link rel="stylesheet" href="ui/vendor/not.css"><link rel="stylesheet" href="ui/ui.css?v=20261123-3"></head>
+<html lang="ru" data-theme="dark"><head><meta charset="utf-8"><meta name="viewport" content="width=device-width,initial-scale=1"><title>ALTA CFC · Вентиляция · Вариант C</title><link rel="icon" href="data:,"><link rel="stylesheet" href="ui/vendor/tokens.css"><link rel="stylesheet" href="ui/vendor/cfc-tokens.css"><link rel="stylesheet" href="ui/vendor/theme.css"><link rel="stylesheet" href="ui/vendor/base.css"><link rel="stylesheet" href="ui/vendor/ports.css"><link rel="stylesheet" href="ui/vendor/variable.css"><link rel="stylesheet" href="ui/vendor/read.css"><link rel="stylesheet" href="ui/vendor/write.css"><link rel="stylesheet" href="ui/vendor/add.css"><link rel="stylesheet" href="ui/vendor/gt.css"><link rel="stylesheet" href="ui/vendor/and.css"><link rel="stylesheet" href="ui/vendor/not.css"><link rel="stylesheet" href="ui/ui.css?v=20261123-6"></head>
 <body data-variant="c"><main><a class="overview-link" href="index.html"><svg viewBox="0 0 16 16" width="16" height="16" aria-hidden="true"><g fill="none" stroke="currentColor"><rect x="1.5" y="1.5" width="5" height="5" rx=".5"/><rect x="9.5" y="1.5" width="5" height="5" rx=".5"/><rect x="1.5" y="9.5" width="5" height="5" rx=".5"/><rect x="9.5" y="9.5" width="5" height="5" rx=".5"/></g></svg>Все четыре варианта</a><header class="page-heading"><div><p class="overline">ALTA / CFC</p><h1>Управление вентиляцией</h1><p class="summary">Вентилятор включается при превышении уставки, если разрешён авторежим и нет аварии.</p></div><span class="draft">C · Зависимости выбранной ноды</span></header>
-<section class="editor" aria-label="Схема управления вентиляцией"><div class="program"><span class="program-type">CFC</span><span>Ventilation_Control</span><span class="program-note">Основная программа</span></div><div class="scroll"><div id="static-canvas" class="static-canvas"><svg class="connections" id="ui-connections" width="1580" height="820" viewBox="0 0 1580 820" aria-hidden="true"></svg><div id="ui-nodes"></div></div></div><footer><span id="selection-status" aria-live="polite">Выберите ноду, чтобы подсветить её связи</span><div class="signal-legend"><span><i class="float"></i>REAL</span><span><i class="bool"></i>BOOL</span></div></footer></section>
+<section class="editor" aria-label="Схема управления вентиляцией"><div class="program"><span class="program-type">CFC</span><span>Ventilation_Control</span><span class="program-note">Основная программа</span></div><div class="scroll"><div id="static-canvas" class="static-canvas"><svg class="connections" id="ui-connections" width="1840" height="820" viewBox="0 0 1840 820" aria-hidden="true"></svg><div id="ui-nodes"></div></div></div><footer><span id="selection-status" aria-live="polite">Выберите ноду, чтобы подсветить её связи</span><div class="signal-legend"><span><i class="float"></i>REAL</span><span><i class="bool"></i>BOOL</span></div></footer></section>
 <p class="footnote">Пример значений: 28 + 2 = 30 °C &gt; 29 °C. Авторежим включён, аварии нет. Команда вентилятора — TRUE. При выборе ноды выделяются все её зависимости. Остальная схема приглушается. Повторный клик, пустой холст или Esc снимают выбор.</p></main>
-<script src="scenario.js"></script><script src="ui/templates.js"></script><script src="ui/ui.js?v=20261123-4"></script></body></html>
+<script src="scenario.js"></script><script src="ui/templates.js"></script><script src="ui/ui.js?v=20261123-6"></script></body></html>
